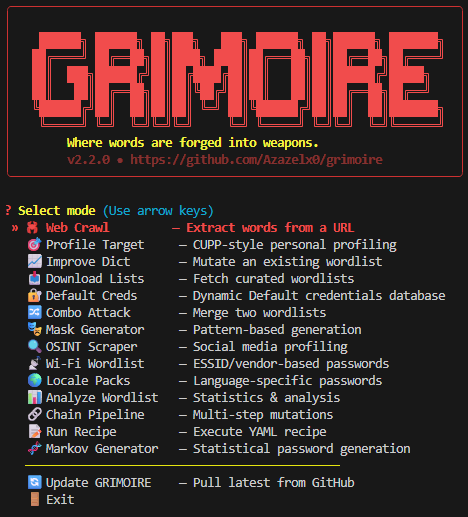
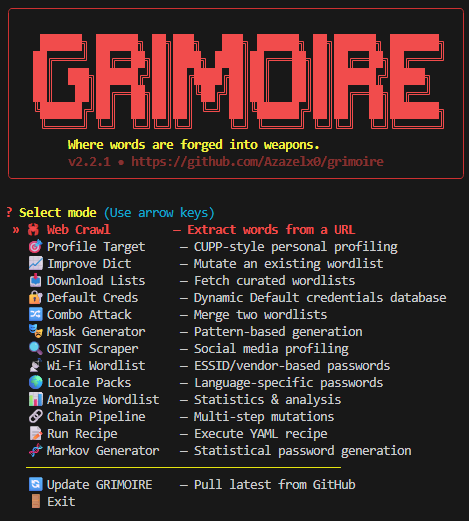
fix(cli): correct wizard menu reference for default creds [release v2.2.1]

Changed region(s): [[0.0, 0.4023, 0.9573, 0.9903], [0.0299, 0.0619, 0.9872, 0.3714], [0.0, 0.0, 0.9872, 0.3404]]

diff --git a/grimoire/wizard.py b/grimoire/wizard.py
@@ -336,8 +336,8 @@ def _download_wizard() -> dict:
     }
 
 
-def _alecto_wizard() -> dict:
-    banner.console.print("\n  [bold cyan]── Alecto Default Credentials ──[/bold cyan]\n")
+def _default_creds_wizard() -> dict:
+    banner.console.print("\n  [bold cyan]── Default Credentials ──[/bold cyan]\n")
     action = questionary.select(
         "What to do?",
         choices=[

diff --git a/setup.py b/setup.py
@@ -2,7 +2,7 @@ from setuptools import setup, find_packages
 
 setup(
     name="grimoire-wordlist",
-    version="2.2.0",
+    version="2.2.1",
     packages=find_packages(),
     include_package_data=True,
     package_data={"grimoire": ["data/*.csv", "data/locales/*.txt"]},

diff --git a/grimoire/__init__.py b/grimoire/__init__.py
@@ -1,4 +1,4 @@
 """GRIMOIRE — Where words are forged into weapons."""
 
-__version__ = "2.2.0"
+__version__ = "2.2.1"
 __author__ = "GRIMOIRE"

diff --git a/CHANGELOG.md b/CHANGELOG.md
@@ -5,6 +5,10 @@ All notable changes to this project will be documented in this file.
 The format is based on [Keep a Changelog](https://keepachangelog.com/en/1.0.0/),
 and this project adheres to [Semantic Versioning](https://semver.org/spec/v2.0.0.html).
 
+## [2.2.1] - 2026-03-12
+### Fixed
+- Fixed an issue where accessing the Default Credentials module from the interactive wizard menu would crash (`NameError`) due to an orphaned function reference during migration.
+
 ## [2.2.0] - 2026-03-12
 ### Added
 - **Dynamic Default Credentials**: Migrated the static `alecto.py` database to a dynamic module (`default_creds.py`) that fetches records from GitHub/online cheat sheets.
